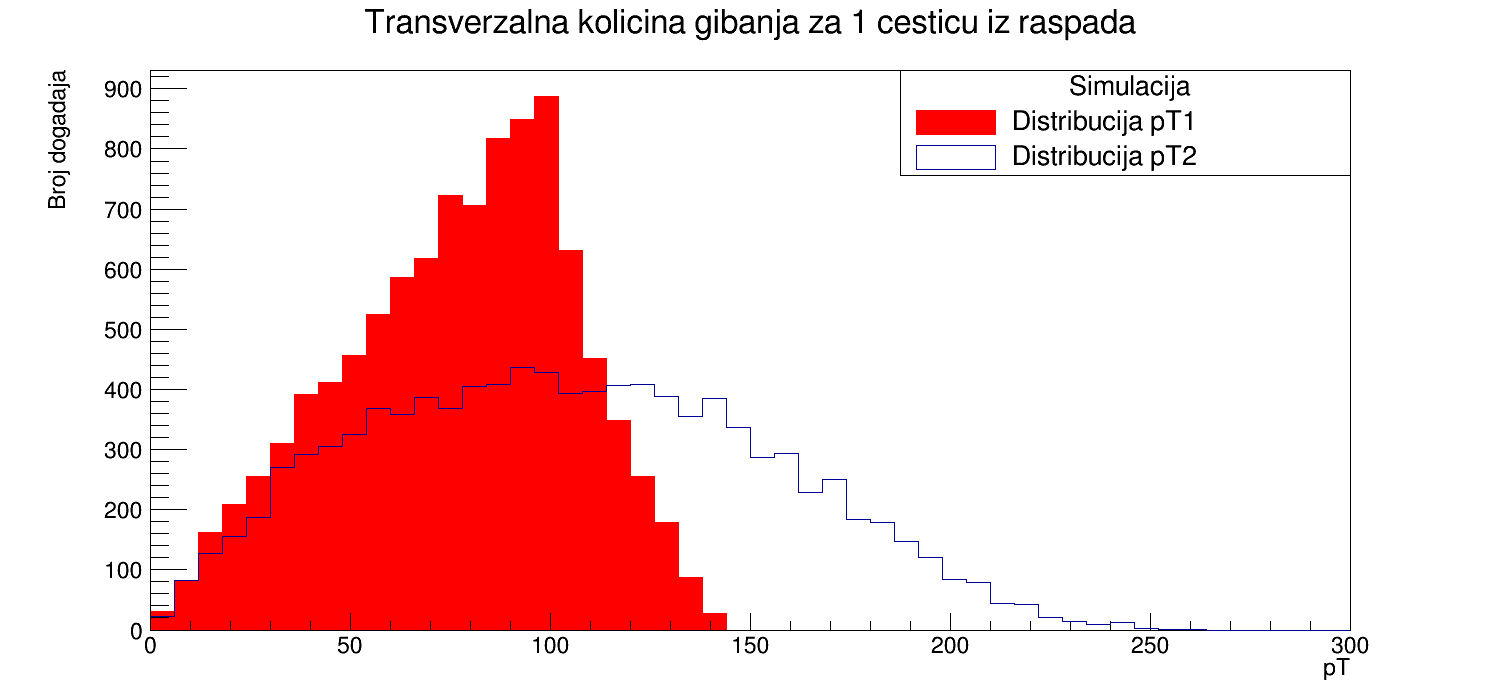
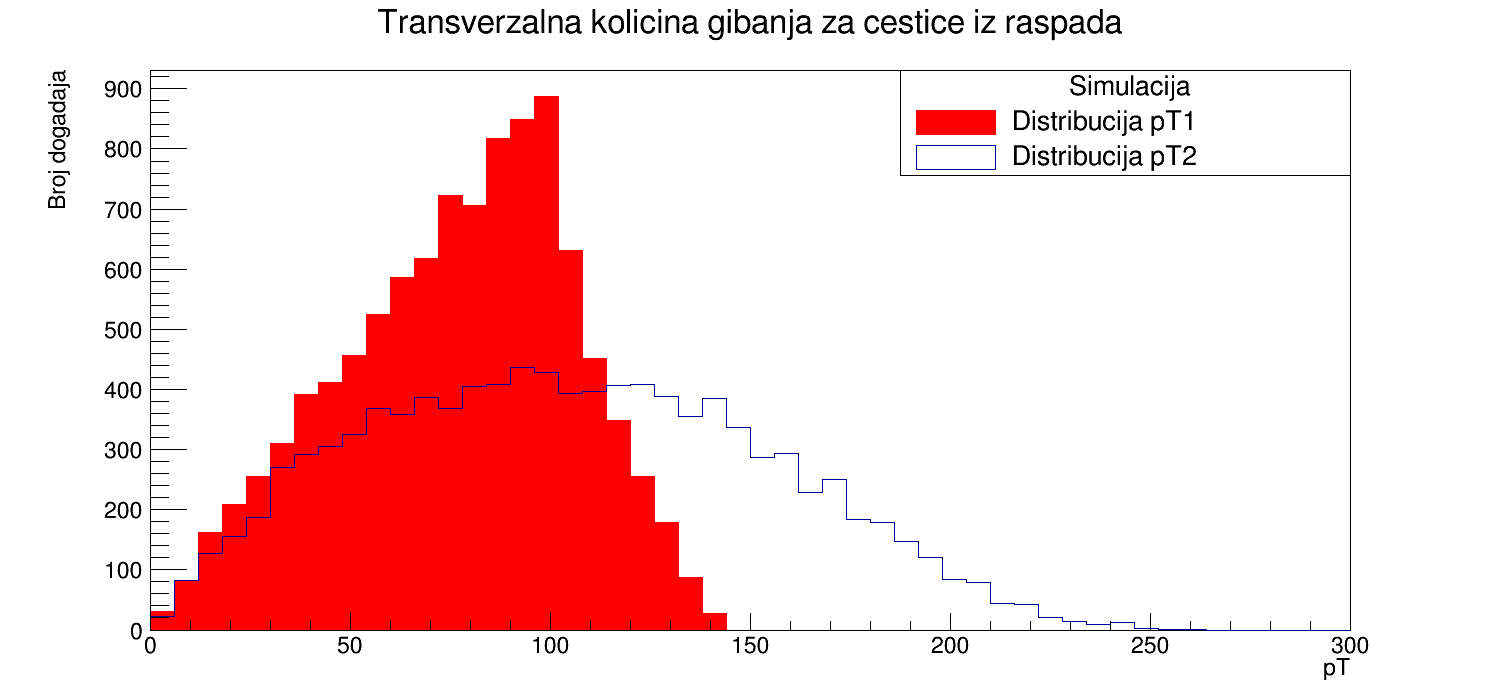
vjezbe5

Changed region(s): [[0.2453, 0.0, 0.7667, 0.06]]

diff --git a/Vjezbe_5/Analyzer.cpp b/Vjezbe_5/Analyzer.cpp
@@ -59,7 +59,7 @@ void Analyzer::PlotHistogram(){
 	gStyle->SetOptStat(0);
 	hist_pt1 -> SetLineColor (kRed);
 	hist_pt1 -> SetFillColor (kRed);
-	hist_pt1 -> SetTitle ("Transverzalna kolicina gibanja za 1 cesticu iz raspada");
+	hist_pt1 -> SetTitle ("Transverzalna kolicina gibanja za cestice iz raspada");
 	hist_pt1 -> GetXaxis() -> SetTitle ("pT");
 	hist_pt1 -> GetYaxis() -> SetTitle ("Broj dogadaja");
 	TLegend *legend = new TLegend(0.6,0.75,0.9,0.9);
